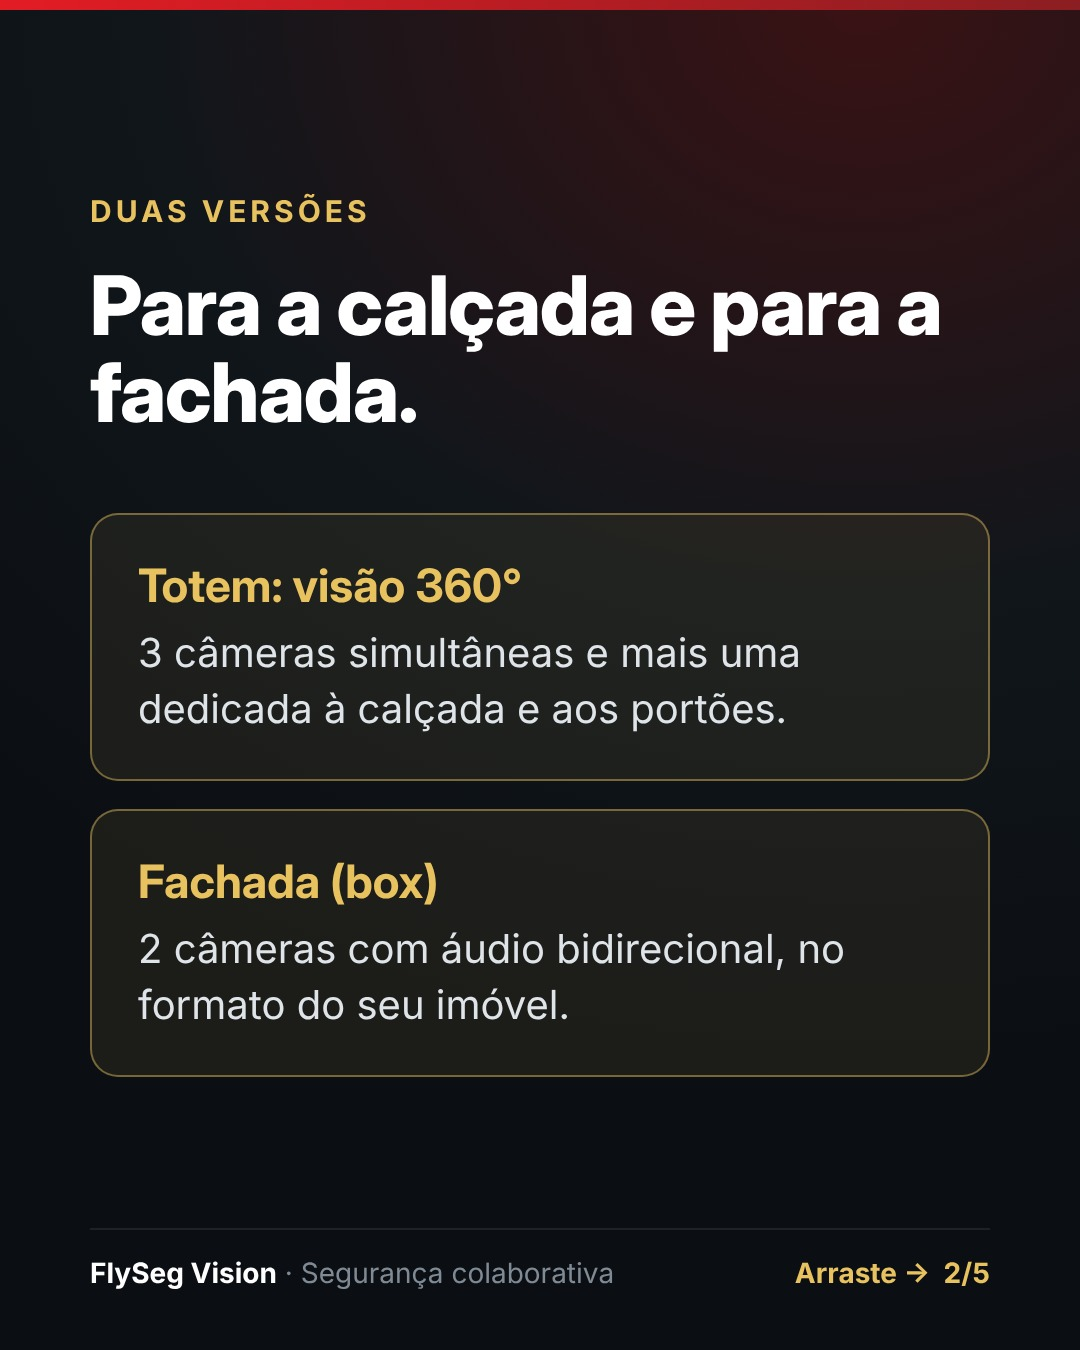
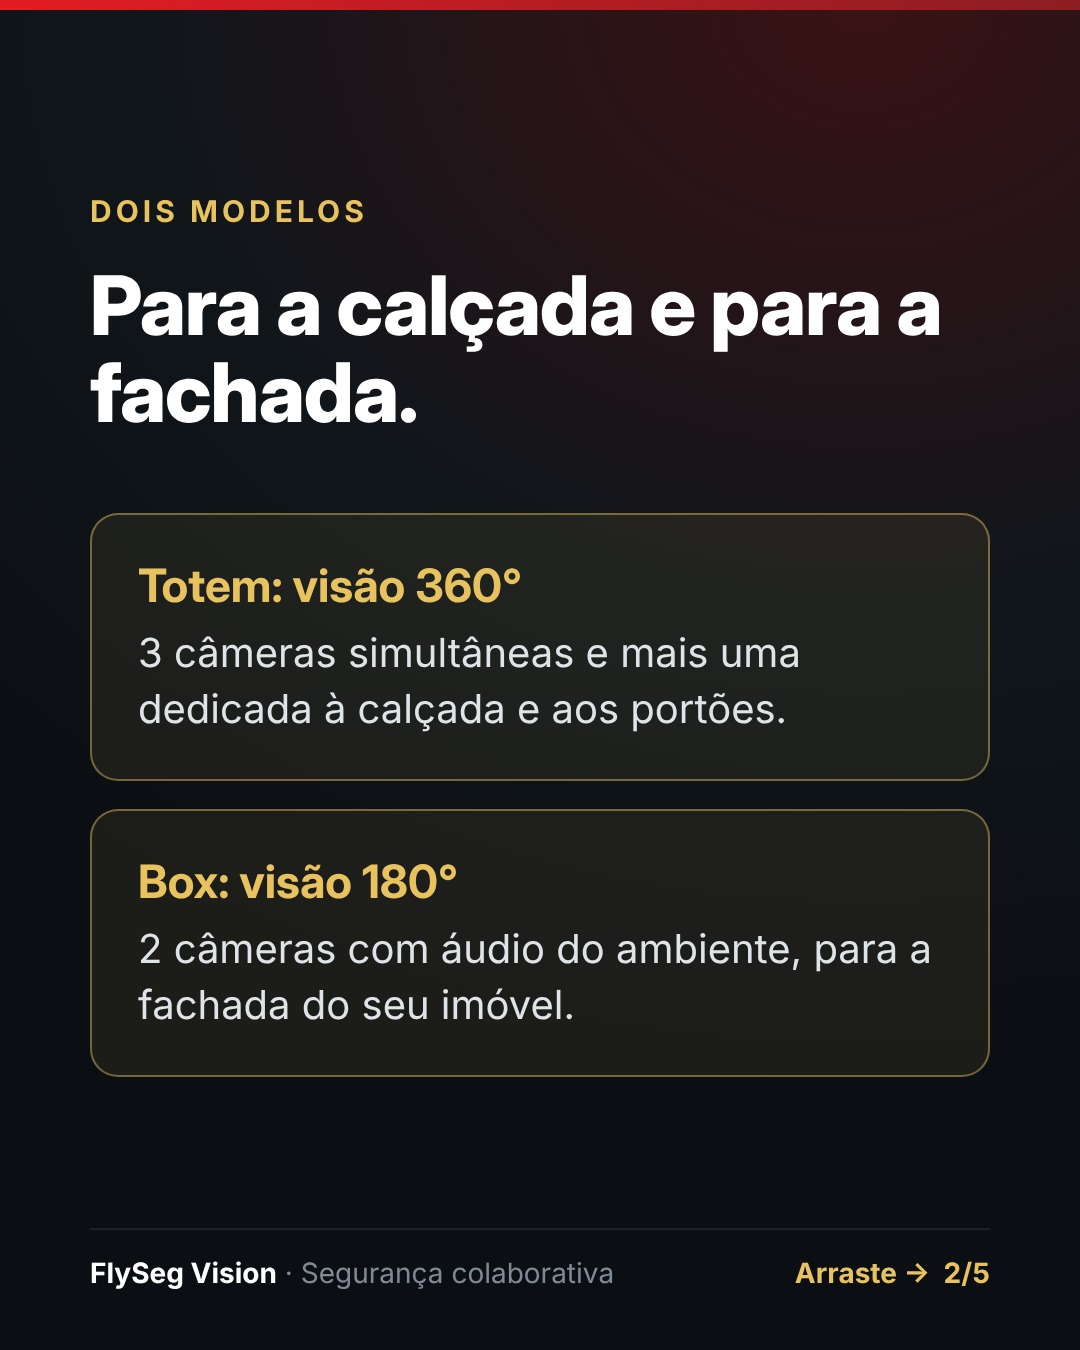
FlySeg ODL (Instagram e Facebook): slides, story e legendas alinhados à ficha (Box, comodato, sem áudio bidirecional)
Claude-Session: https://claude.ai/code/session_013wqKux7qHbRAJMaH62mhbc

diff --git a/social-flyseg/2026-11-odl-camera/story.html b/social-flyseg/2026-11-odl-camera/story.html
@@ -8,4 +8,4 @@ ol{list-style:none;display:flex;flex-direction:column}
 li{display:flex;align-items:flex-start;color:#dfe4e9;line-height:1.32}
 li b{border-radius:50%;background:linear-gradient(135deg,#e31c24,#8b1e22);display:flex;align-items:center;justify-content:center;color:#fff;font-family:'Inter Display';flex-shrink:0}
 .ft{position:absolute;display:flex;justify-content:space-between;align-items:center;color:#7f8a94;border-top:2px solid rgba(255,255,255,.08)}.ft b{color:#fff}.ft .g{color:#e9c260;font-weight:700}body{width:1080px;height:1920px}.w{left:90px;right:90px;top:250px;bottom:370px;justify-content:center}.logo{width:300px}.eb{font-size:32px}h1{font-size:96px}.s{font-size:44px}
-ol{gap:34px}li{gap:28px;font-size:44px}li b{width:76px;height:76px;font-size:38px}.cta{margin-top:56px;align-self:flex-start;padding:28px 46px;border-radius:20px;background:linear-gradient(90deg,#e31c24,#8b1e22);font-size:42px;font-weight:700}</style></head><body><div class="bar"></div><div class="w"><img class="logo" src="file:///home/claude/flyseg-posts/logo.png"><div class="eb">ODL.camera</div><h1>A segurança da rua <span>num conjunto completo.</span></h1><p class="s">Totem com visão 360° e versão fachada, criados pela FlySeg.</p><ol><li><b>1</b><span>Sirene e giroflex integrados</span></li><li><b>2</b><span>Câmeras Full HD coloridas à noite e 7 dias de gravação</span></li><li><b>3</b><span>Ocorrências no MWL.camera e no painel das forças de segurança</span></li></ol><div class="cta">Fale com a gente pelo direct</div></div></body></html>
+ol{gap:34px}li{gap:28px;font-size:44px}li b{width:76px;height:76px;font-size:38px}.cta{margin-top:56px;align-self:flex-start;padding:28px 46px;border-radius:20px;background:linear-gradient(90deg,#e31c24,#8b1e22);font-size:42px;font-weight:700}</style></head><body><div class="bar"></div><div class="w"><img class="logo" src="file:///home/claude/flyseg-posts/logo.png"><div class="eb">ODL.camera</div><h1>A segurança da rua <span>num conjunto completo.</span></h1><p class="s">Totem com visão 360° e Box para a fachada, criados pela FlySeg.</p><ol><li><b>1</b><span>Sirene e giroflex integrados</span></li><li><b>2</b><span>Câmeras Full HD coloridas à noite e 7 dias de gravação</span></li><li><b>3</b><span>Ocorrências no MWL.camera e no painel das forças de segurança</span></li></ol><div class="cta">Fale com a gente pelo direct</div></div></body></html>

diff --git a/social-flyseg/2026-11-odl-camera/slide2.html b/social-flyseg/2026-11-odl-camera/slide2.html
@@ -23,4 +23,4 @@ ol li b{flex:0 0 74px;height:74px;border-radius:50%;background:linear-gradient(1
 .cta{display:inline-block;margin-top:50px;padding:26px 44px;border-radius:18px;background:linear-gradient(90deg,#e31c24,#8b1e22);font-size:40px;font-weight:700}
 .center{justify-content:center}
 </style></head><body><div class="bar"></div>
-<div class="wrap"><div class="eyebrow">Duas versões</div><h2>Para a calçada e para a fachada.</h2><div class="card"><h3>Totem: visão 360°</h3><p>3 câmeras simultâneas e mais uma dedicada à calçada e aos portões.</p></div><div class="card"><h3>Fachada (box)</h3><p>2 câmeras com áudio bidirecional, no formato do seu imóvel.</p></div></div><div class="foot"><span><b>FlySeg Vision</b> · Segurança colaborativa</span><span class="sw">Arraste →&nbsp;&nbsp;2/5</span></div></body></html>
+<div class="wrap"><div class="eyebrow">Dois modelos</div><h2>Para a calçada e para a fachada.</h2><div class="card"><h3>Totem: visão 360°</h3><p>3 câmeras simultâneas e mais uma dedicada à calçada e aos portões.</p></div><div class="card"><h3>Box: visão 180°</h3><p>2 câmeras com áudio do ambiente, para a fachada do seu imóvel.</p></div></div><div class="foot"><span><b>FlySeg Vision</b> · Segurança colaborativa</span><span class="sw">Arraste →&nbsp;&nbsp;2/5</span></div></body></html>

diff --git a/social-flyseg/2026-11-odl-camera/slide5.html b/social-flyseg/2026-11-odl-camera/slide5.html
@@ -23,4 +23,4 @@ ol li b{flex:0 0 74px;height:74px;border-radius:50%;background:linear-gradient(1
 .cta{display:inline-block;margin-top:50px;padding:26px 44px;border-radius:18px;background:linear-gradient(90deg,#e31c24,#8b1e22);font-size:40px;font-weight:700}
 .center{justify-content:center}
 </style></head><body><div class="bar"></div>
-<div class="wrap"><div class="center" style="display:flex;flex-direction:column;height:100%"><img class="logo big" src="file:///home/claude/flyseg-posts/logo.png"><h2>Sem custo de equipamento.</h2><p class="t">Assinatura mensal com o conjunto completo instalado.</p><span class="cta">Fale com a gente pelo direct</span></div></div><div class="foot"><span><b>FlySeg Vision</b> · Segurança colaborativa</span><span class="sw">5/5</span></div></body></html>
+<div class="wrap"><div class="center" style="display:flex;flex-direction:column;height:100%"><img class="logo big" src="file:///home/claude/flyseg-posts/logo.png"><h2>Equipamento em comodato.</h2><p class="t">Contrate na loja da FlySeg no FlyGroup Marketplace.</p><span class="cta">Fale com a gente pelo direct</span></div></div><div class="foot"><span><b>FlySeg Vision</b> · Segurança colaborativa</span><span class="sw">5/5</span></div></body></html>

diff --git a/social-flyseg/2026-11-odl-camera/slide1.html b/social-flyseg/2026-11-odl-camera/slide1.html
@@ -23,4 +23,4 @@ ol li b{flex:0 0 74px;height:74px;border-radius:50%;background:linear-gradient(1
 .cta{display:inline-block;margin-top:50px;padding:26px 44px;border-radius:18px;background:linear-gradient(90deg,#e31c24,#8b1e22);font-size:40px;font-weight:700}
 .center{justify-content:center}
 </style></head><body><div class="bar"></div>
-<div class="wrap"><img class="logo" src="file:///home/claude/flyseg-posts/logo.png"><div class="eyebrow">ODL.camera</div><h1>A segurança da rua <span class="gold">num conjunto completo.</span></h1><p class="sub">Totem e versão fachada criados pela FlySeg, integrados ao MWL.camera.</p></div><div class="foot"><span><b>FlySeg Vision</b> · Segurança colaborativa</span><span class="sw">Arraste →&nbsp;&nbsp;1/5</span></div></body></html>
+<div class="wrap"><img class="logo" src="file:///home/claude/flyseg-posts/logo.png"><div class="eyebrow">ODL.camera</div><h1>A segurança da rua <span class="gold">num conjunto completo.</span></h1><p class="sub">Totem e Box criados pela FlySeg, integrados ao MWL.camera.</p></div><div class="foot"><span><b>FlySeg Vision</b> · Segurança colaborativa</span><span class="sw">Arraste →&nbsp;&nbsp;1/5</span></div></body></html>
